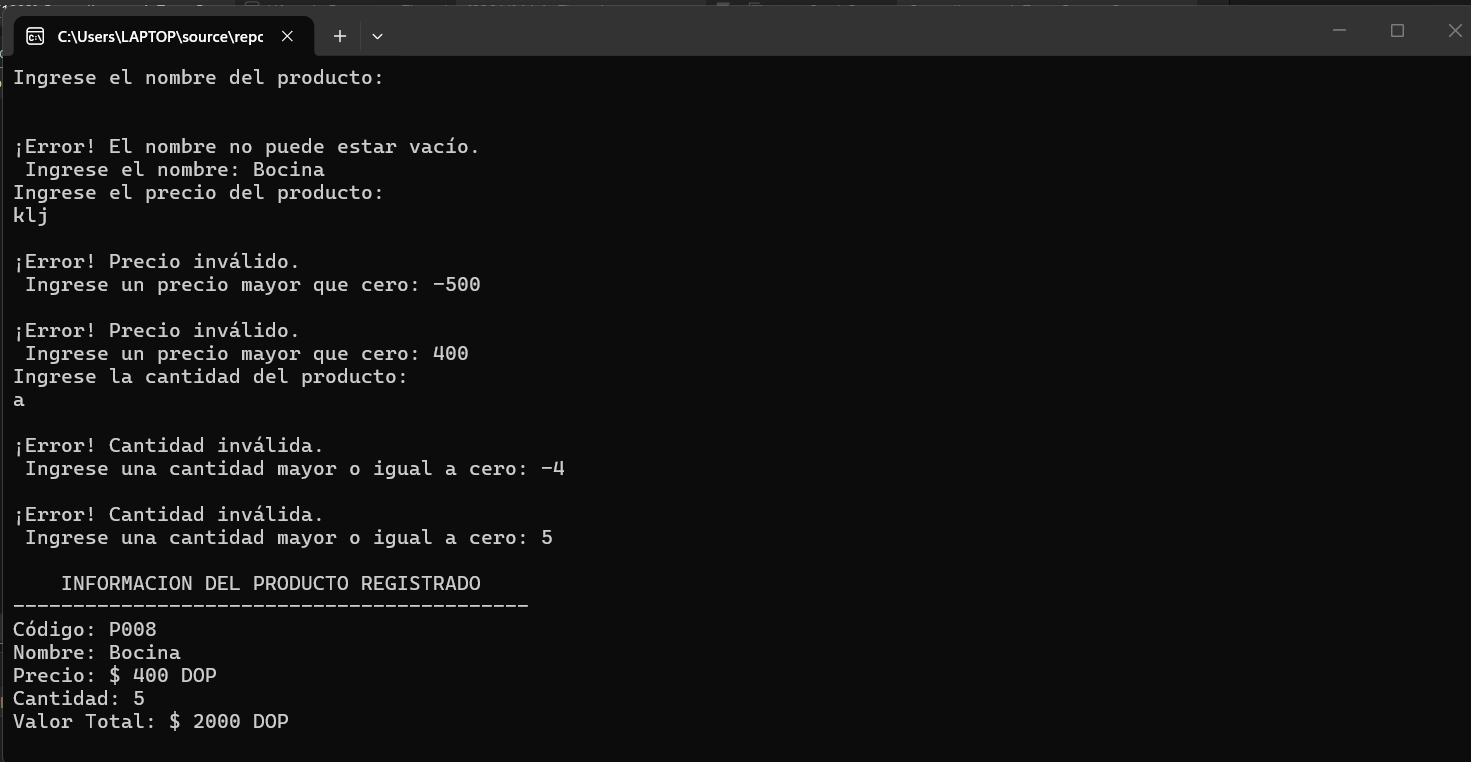
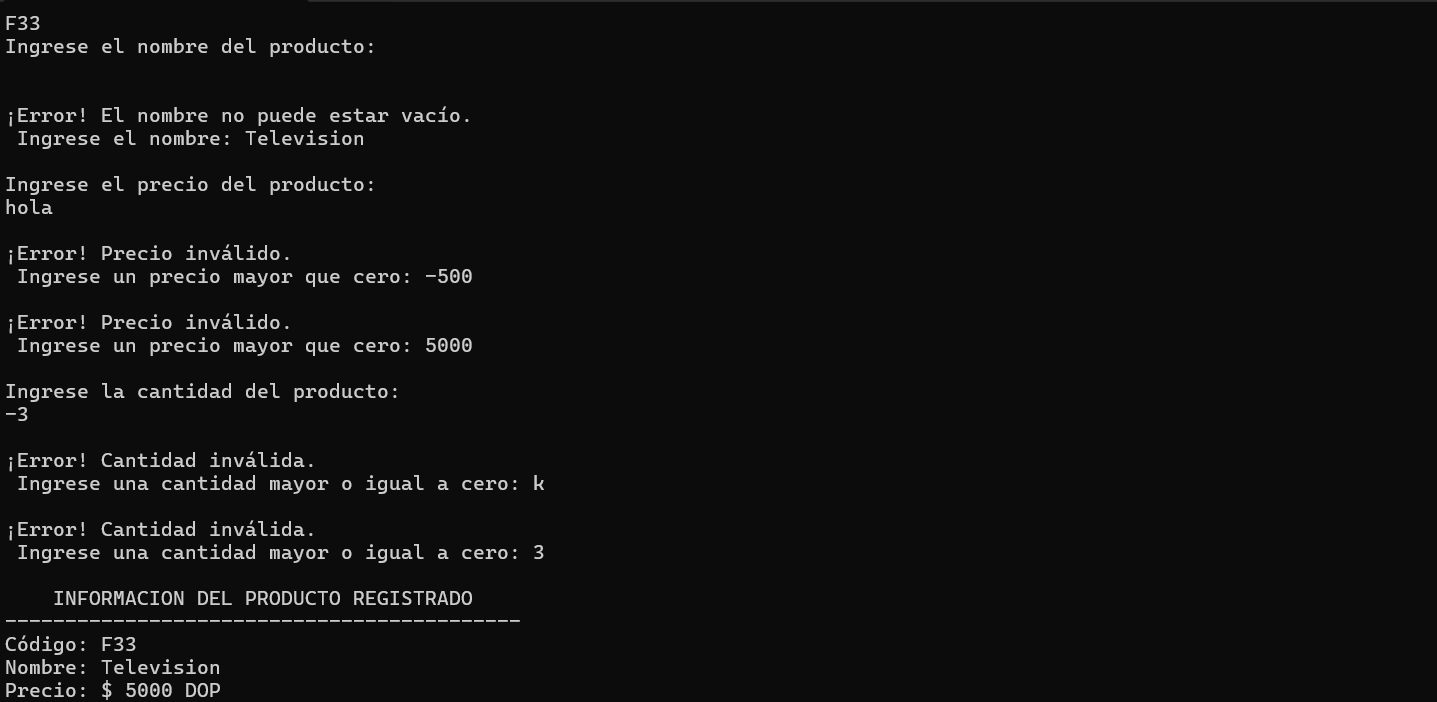
Modificacion captura

Changed region(s): [[0.0, 0.1496, 0.3981, 0.7179], [0.0, 0.0, 1.0, 0.1197], [0.0, 0.7479, 0.3674, 1.0]]

diff --git a/Program.cs b/Program.cs
@@ -29,7 +29,7 @@
                 _nombre1 = Console.ReadLine();
             }
 
-            Console.WriteLine("Ingrese el precio del producto:");
+            Console.WriteLine("\nIngrese el precio del producto:");
             decimal _precio1;
             // Validación del precio para que sea mayor a cero y que sea un número decimal válido
             while (!decimal.TryParse(Console.ReadLine(), out _precio1) || _precio1 <= 0)
@@ -37,7 +37,7 @@
                 Console.Write("\n¡Error! Precio inválido.\n Ingrese un precio mayor que cero: ");
             }
 
-            Console.WriteLine("Ingrese la cantidad del producto:");
+            Console.WriteLine("\nIngrese la cantidad del producto:");
             int _cantidad1;
             while (!int.TryParse(Console.ReadLine(), out _cantidad1) || _cantidad1 < 0)
             {
@@ -64,14 +64,14 @@
                 _nombre2 = Console.ReadLine();
             }
 
-            Console.WriteLine("Ingrese el precio del producto:");
+            Console.WriteLine("\nIngrese el precio del producto:");
             decimal _precio2;
             while (!decimal.TryParse(Console.ReadLine(), out _precio2) || _precio2 <= 0)
             {
                 Console.Write("\n¡Error! Precio inválido.\n Ingrese un precio mayor que cero: ");
             }
 
-            Console.WriteLine("Ingrese la cantidad del producto:");
+            Console.WriteLine("\nIngrese la cantidad del producto:");
             int _cantidad2;
             while (!int.TryParse(Console.ReadLine(), out _cantidad2) || _cantidad2 < 0)
             {
@@ -97,14 +97,14 @@
                 _nombre3 = Console.ReadLine();
             }
 
-            Console.WriteLine("Ingrese el precio del producto:");
+            Console.WriteLine("\nIngrese el precio del producto:");
             decimal _precio3;
             while (!decimal.TryParse(Console.ReadLine(), out _precio3) || _precio3 <= 0)
             {
                 Console.Write("\n¡Error! Precio inválido.\n Ingrese un precio mayor que cero: ");
             }
 
-            Console.WriteLine("Ingrese la cantidad del producto:");
+            Console.WriteLine("\nIngrese la cantidad del producto:");
             int _cantidad3;
             while (!int.TryParse(Console.ReadLine(), out _cantidad3) || _cantidad3 < 0)
             {
